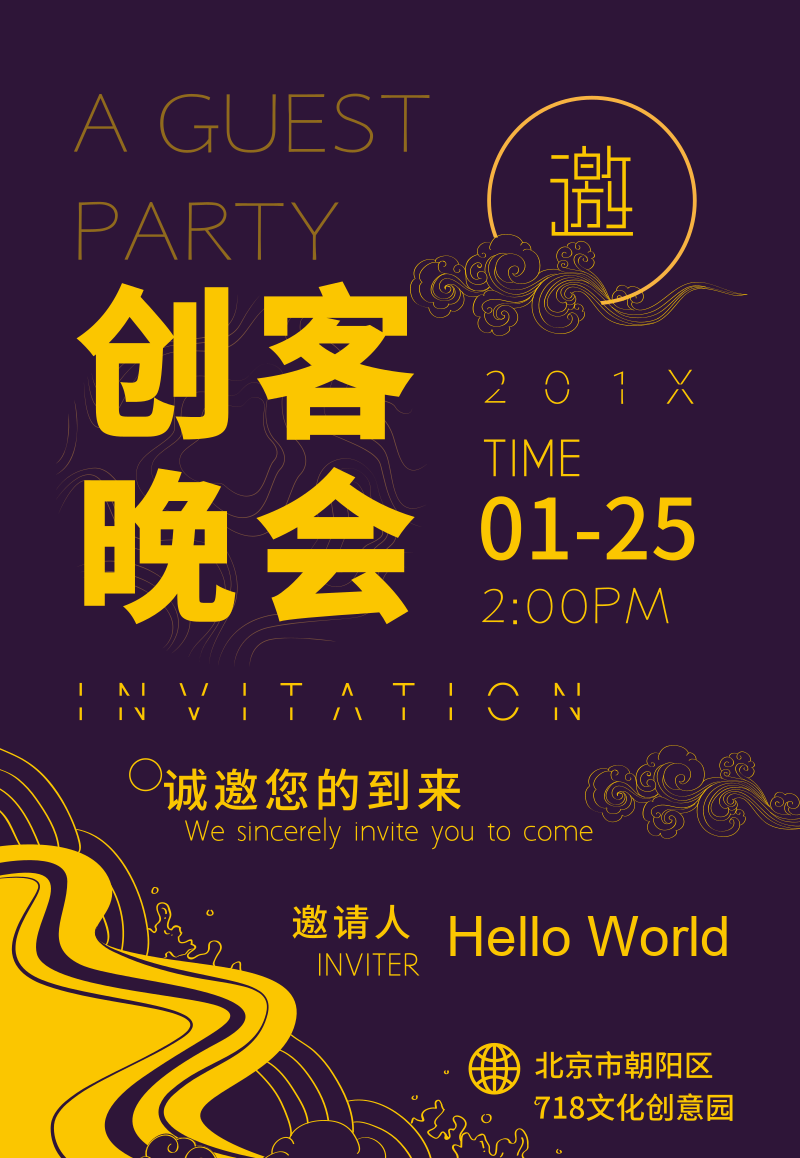
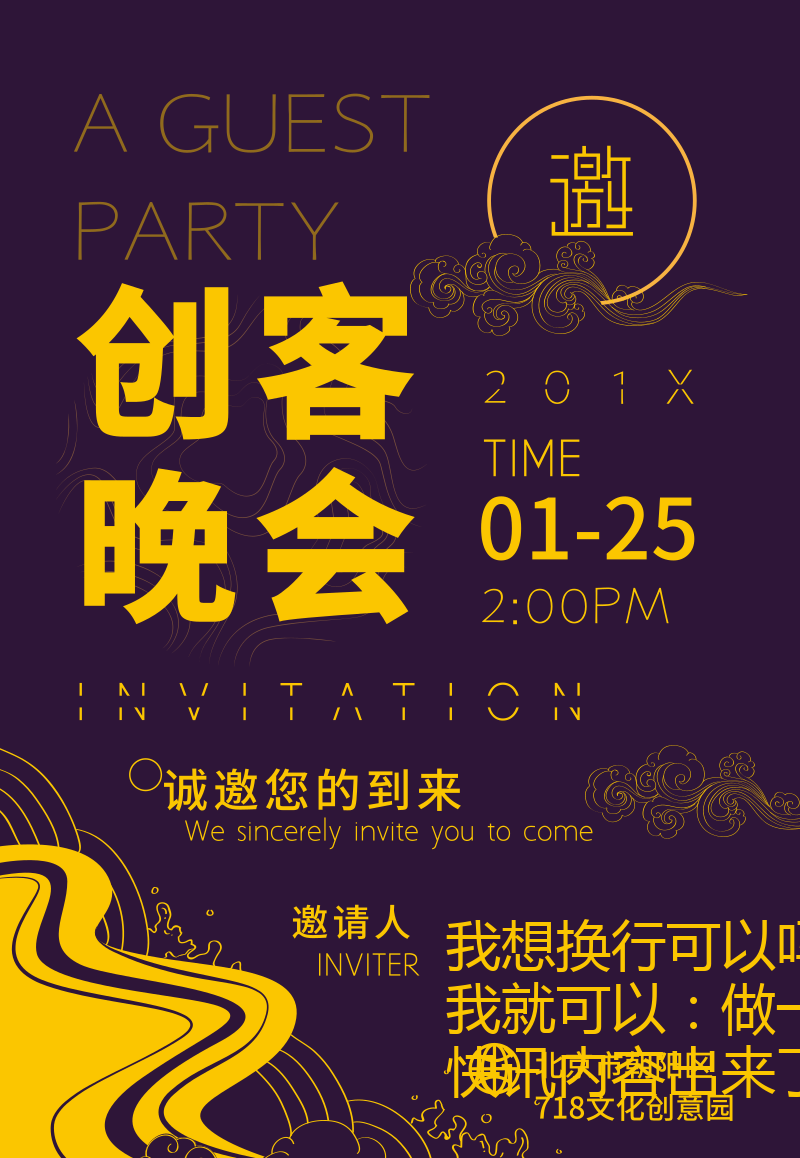
添加了自动换行功能

Changed region(s): [[0.5625, 0.7772, 1.0, 0.9637]]

diff --git a/home.py b/home.py
@@ -1,17 +1,19 @@
 #   Pil和Pillow不能同时存在,使用的是Pillow模块
 from PIL import Image, ImageFont, ImageDraw
+#   自动换行模块
+import textwrap
 
 #   获取图片
 im = Image.open("999.png")
 
 #   获取字体和字号值
-myfont = ImageFont.truetype("C:/windows/fonts/Arial.ttf", size=55)
+myfont = ImageFont.truetype("C:/Users/btcdw/Desktop/r.ttf", size=55)
 
 #   使用此模块创建新图像
 draw = ImageDraw.Draw(im)
 
-#   写入坐标，内容，字色，变量
-draw.text((446, 906), "Hello World",  fill=(251, 198, 0), font= myfont)
+#   写入坐标，换行，内容，字色，变量
+draw.text((446, 906), textwrap.fill("我想换行可以吗？这样我就可以：做一个长的快讯内容出来了", width=10),  fill=(251, 198, 0), font=myfont)
 
 #   显示此图像。此方法主要用于调试目的。
 im.show()
